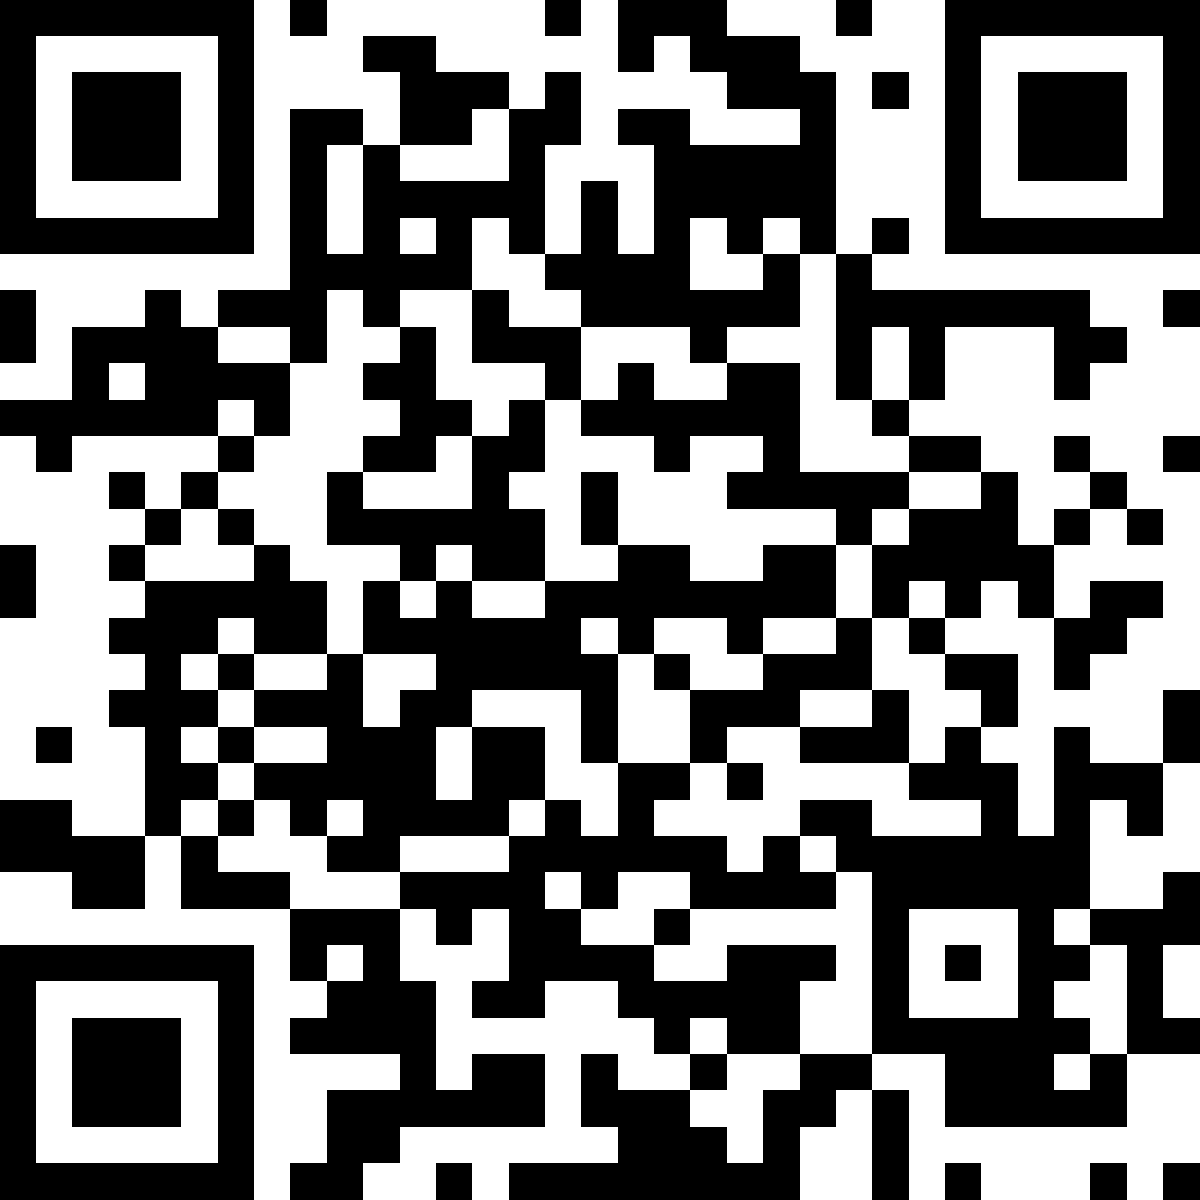
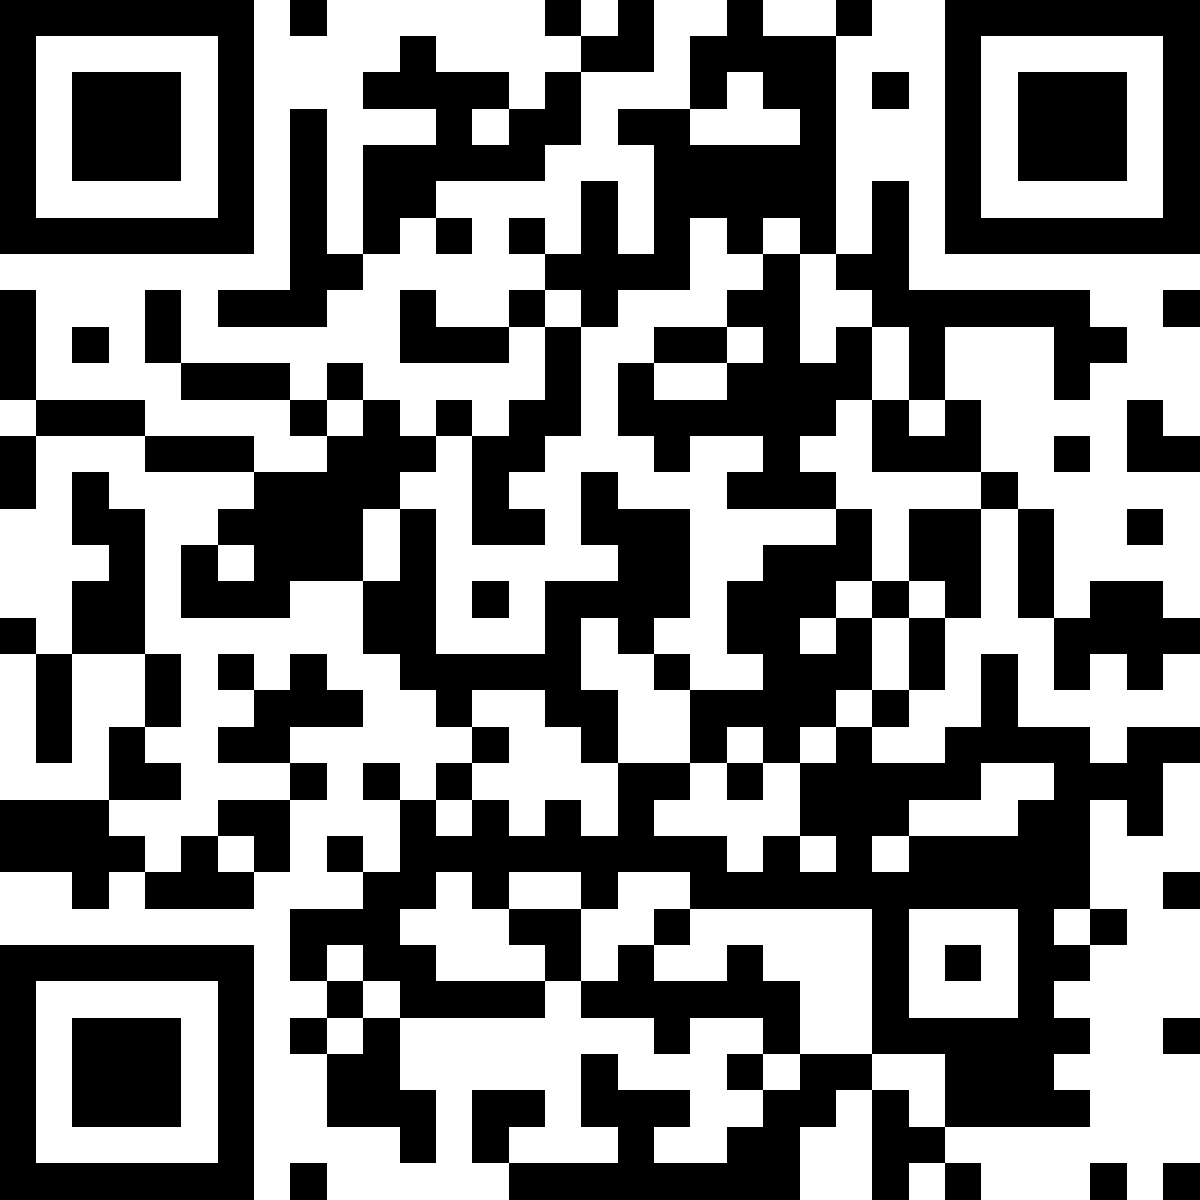
fix: swap QR codes — correct feedback form per talk

diff --git a/slides.md b/slides.md
@@ -350,7 +350,7 @@ class: text-center
 
 <div class="text-lg mt-2">
 
-confoo.ca/f/DA39E62348AF40D2BBD8A4F9B51A2B00
+confoo.ca/f/B1E9D3155640A9D8A5F4E90DF8874288
 
 </div>
 
